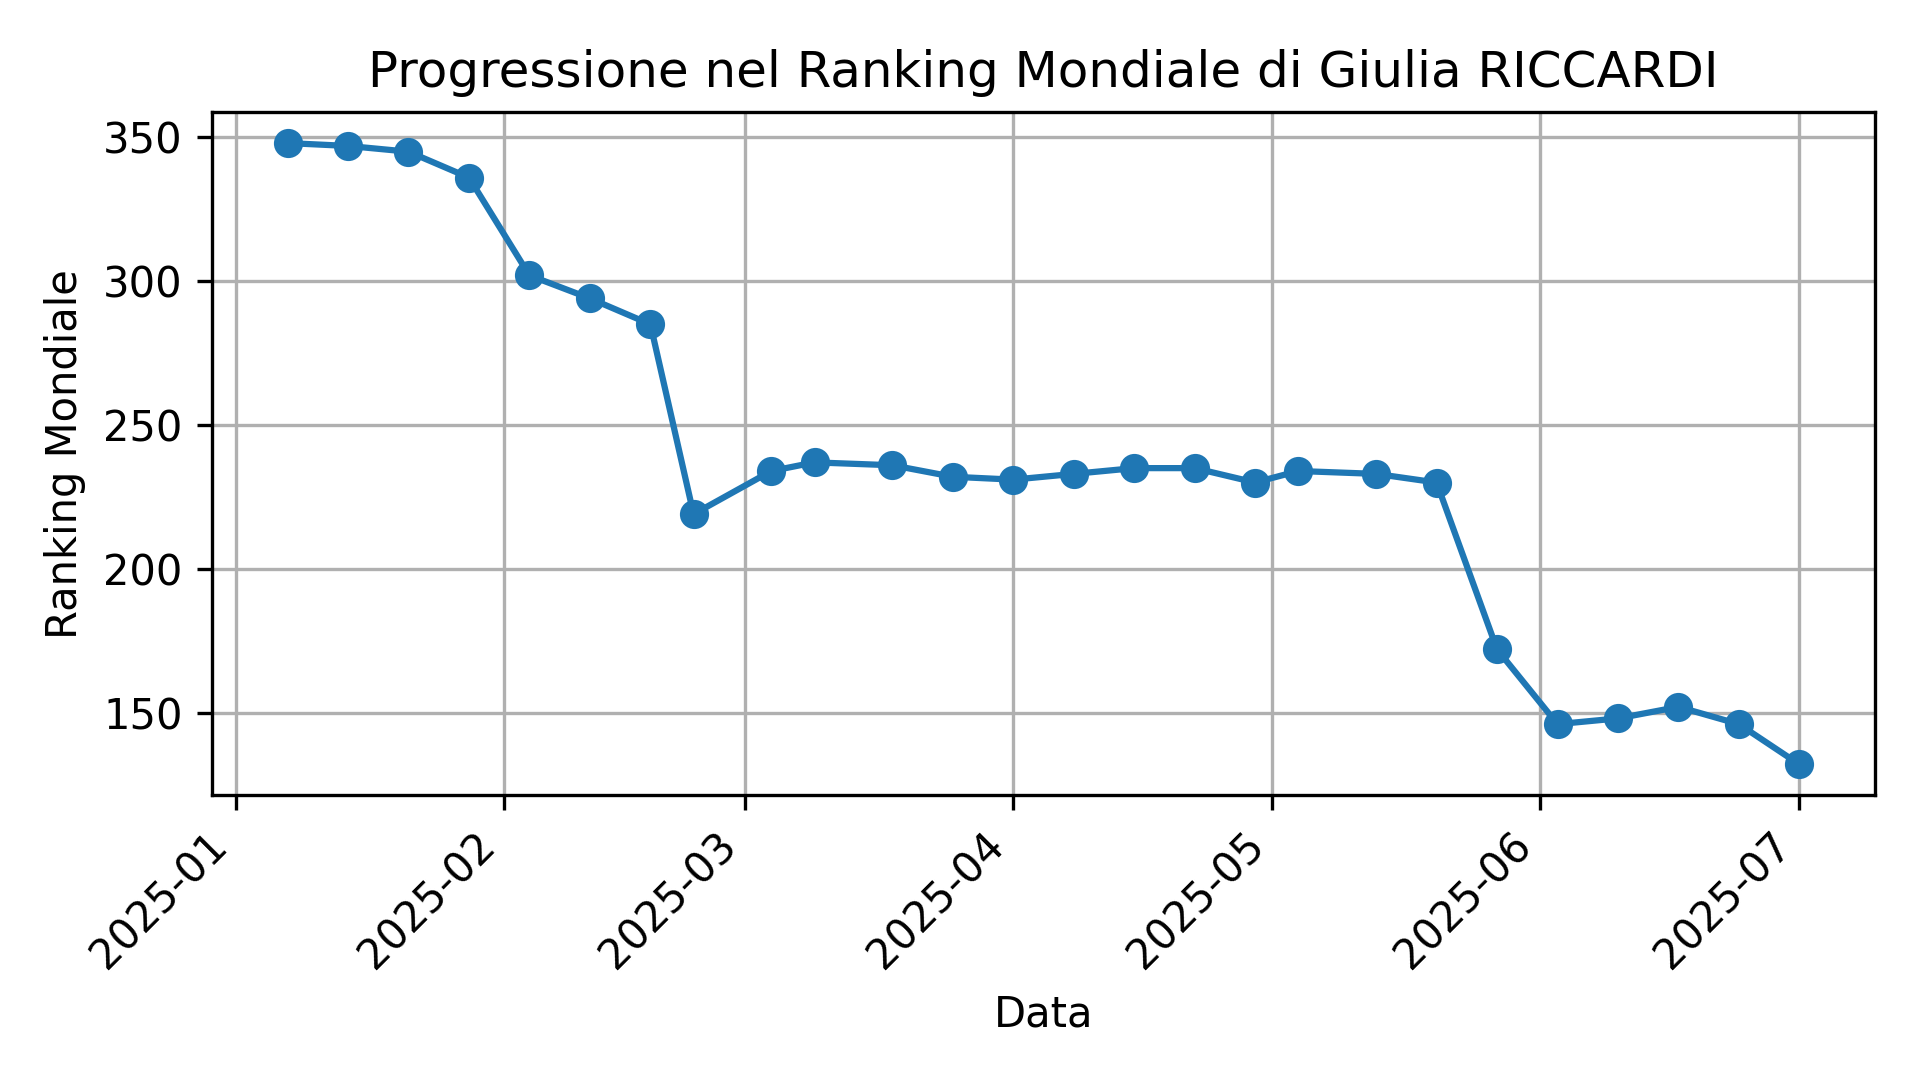
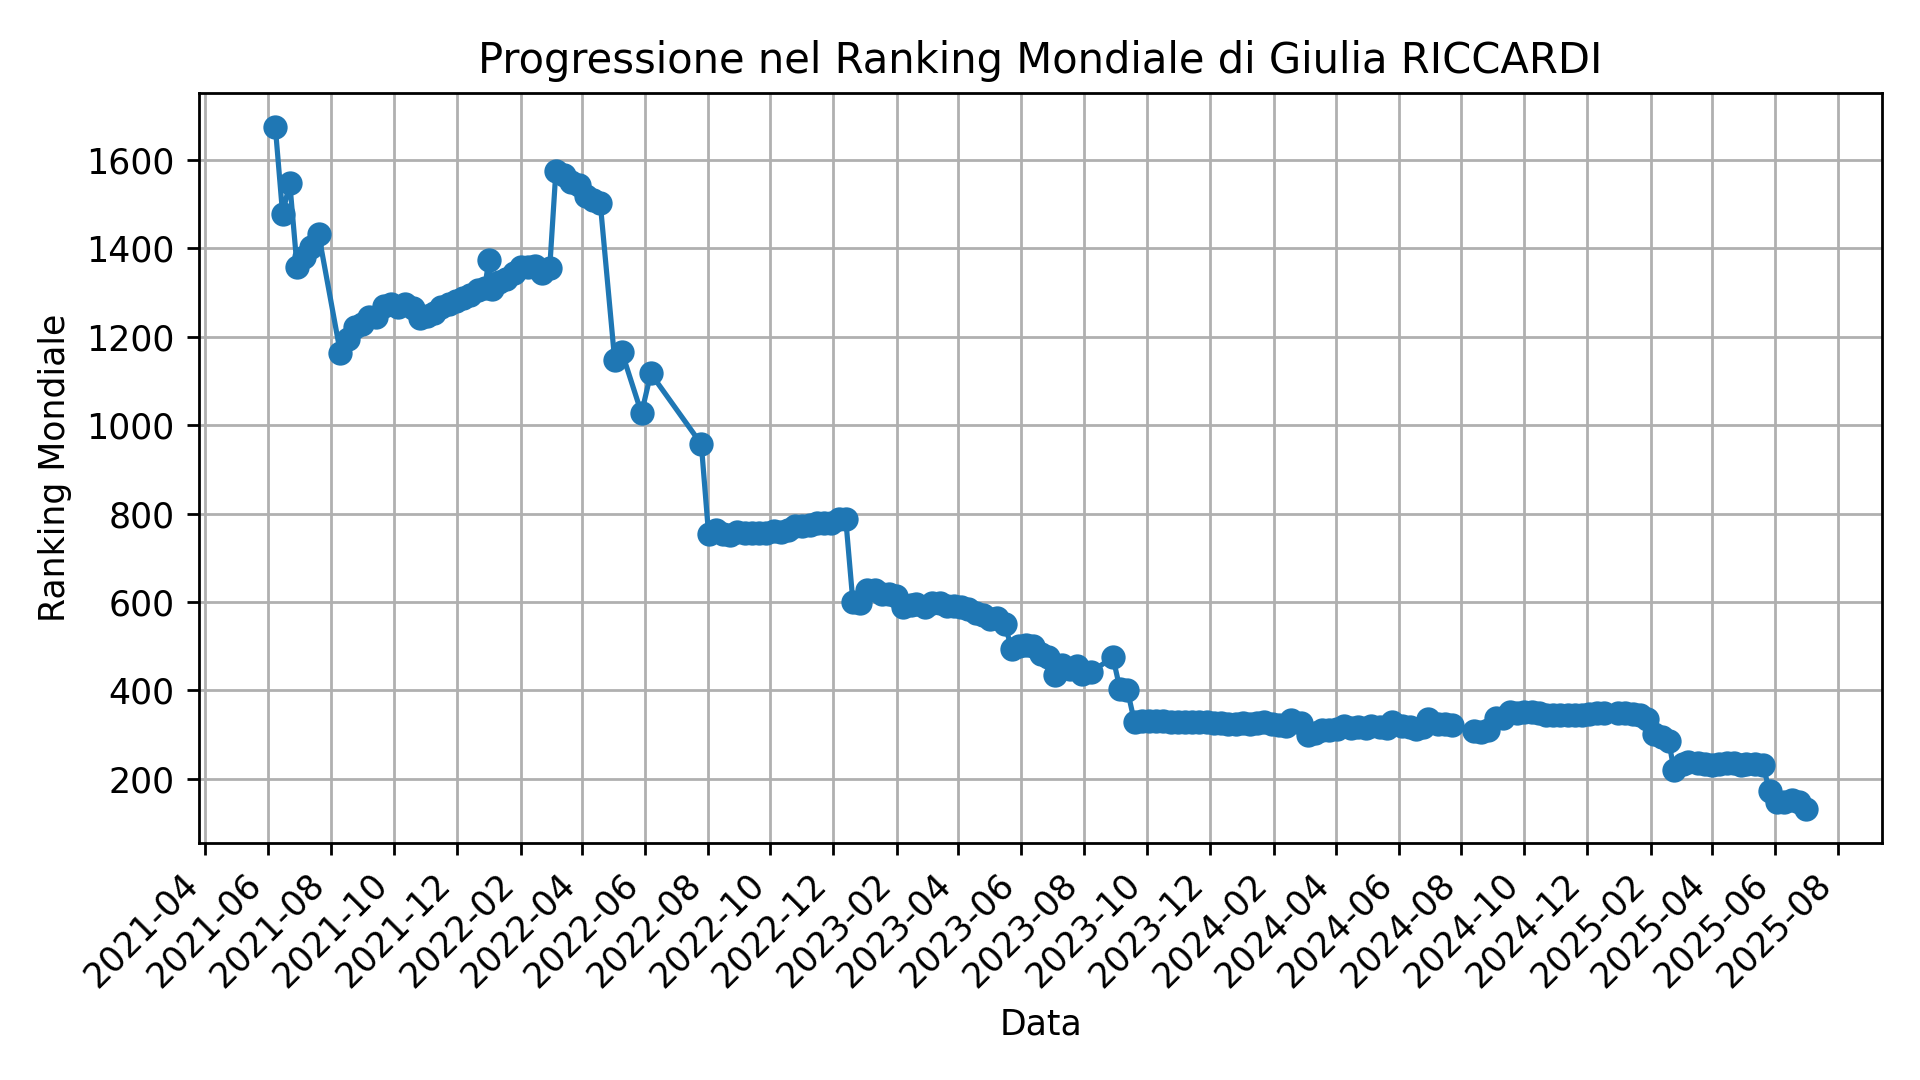
all data

Changed region(s): [[0.0, 0.0306, 1.0, 0.9778]]

diff --git a/progression.py b/progression.py
@@ -1,5 +1,6 @@
 import pandas as pd
 import matplotlib.pyplot as plt
+import matplotlib.dates as mdates
 
 sex = "women"
 event = "long-jump"
@@ -9,20 +10,24 @@ df = pd.read_csv(f"data/{sex}_{event}.csv")
 df_giulia = df[df["Competitor"] == competitor].sort_values(by=["Date"])
 
 # Make sure 'date' is datetime
-df_giulia["date"] = pd.to_datetime(df_giulia["Date"])
+df_giulia["Date"] = pd.to_datetime(df_giulia["Date"])
 
-scale = 300 
+scale = 250 
 plt.figure(figsize=(1920 / scale, 1080 / scale))
 plt.plot(df_giulia["Date"], df_giulia["Place"], 'o-')
+
 plt.xlabel("Data")
 plt.ylabel("Ranking Mondiale")
 plt.title(f"Progressione nel Ranking Mondiale di {competitor}")
 
-# Rotate x-axis labels
+# Show monthly ticks
+plt.gca().xaxis.set_major_locator(mdates.MonthLocator(interval=2))  # every 2 months
+plt.gca().xaxis.set_major_formatter(mdates.DateFormatter('%Y-%m'))
 plt.xticks(rotation=45, ha='right')
 
 plt.tight_layout()
 plt.grid()
+
 plt.savefig(f"figures/{competitor}_{event}.png", dpi=scale)
 plt.show()
 
